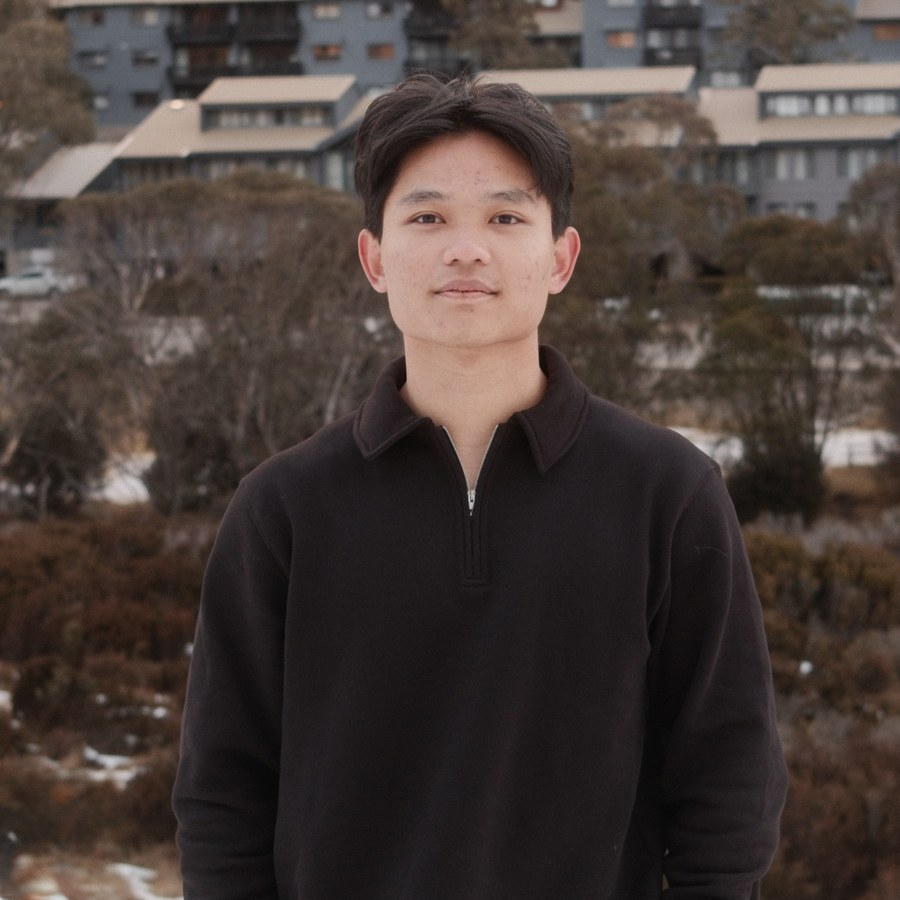
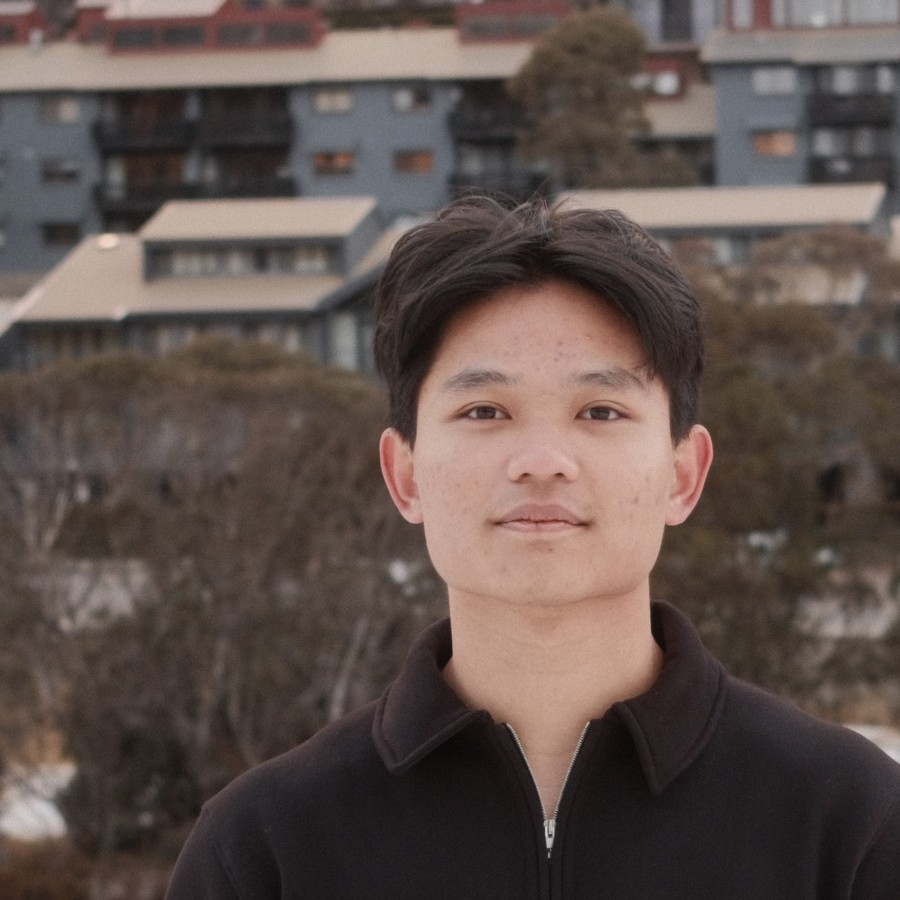
Simplify hero to match mockup, refine contact headshot
Removes the headshot, Projects/Resume buttons, and the "Projects"
heading from the top of the page so it goes straight from the
name/subtitle into the project grid, matching the design reference.
Also re-crops the contact headshot tighter on the face and drops the
grayscale filter for a full-color photo.

diff --git a/src/components/Hero.jsx b/src/components/Hero.jsx
@@ -1,48 +1,12 @@
-import { useState } from "react";
 import { profile } from "../data";
 
 export default function Hero() {
-  const [imgFailed, setImgFailed] = useState(false);
-  const hasPhoto = profile.headshotUrl && !imgFailed;
-
   return (
     <section className="flex flex-col items-center justify-center px-5 pb-16 pt-24 text-center md:pb-20 md:pt-32">
       <h1 className="text-[44px] font-bold leading-none tracking-[-0.04em] text-ink md:text-display">
         {profile.name.toUpperCase()}
       </h1>
       <h2 className="mt-4 text-section text-muted">{profile.role}</h2>
-
-      <div className="mt-10 h-40 w-40 border border-ink bg-white">
-        {hasPhoto ? (
-          <img
-            src={profile.headshotUrl}
-            alt={profile.name}
-            onError={() => setImgFailed(true)}
-            className="h-full w-full object-cover"
-          />
-        ) : (
-          <div className="flex h-full w-full items-center justify-center text-section text-muted">
-            {profile.initials}
-          </div>
-        )}
-      </div>
-
-      <div className="mt-10 flex flex-wrap justify-center gap-4">
-        <a
-          href="#projects"
-          className="border border-ink px-8 py-3 text-label uppercase text-ink transition-colors hover:bg-ink hover:text-paper"
-        >
-          Projects
-        </a>
-        <a
-          href={profile.resumeUrl}
-          target="_blank"
-          rel="noreferrer"
-          className="border border-ink px-8 py-3 text-label uppercase text-ink transition-colors hover:bg-ink hover:text-paper"
-        >
-          Resume
-        </a>
-      </div>
     </section>
   );
 }

diff --git a/src/components/Projects.jsx b/src/components/Projects.jsx
@@ -7,9 +7,7 @@ export default function Projects() {
       id="projects"
       className="mx-auto max-w-6xl border-t border-ink px-5 py-12 md:px-10 md:py-16"
     >
-      <h2 className="text-center text-section uppercase text-ink">Projects</h2>
-
-      <div className="mt-8 grid grid-cols-1 gap-8 md:grid-cols-2 md:gap-10">
+      <div className="grid grid-cols-1 gap-8 md:grid-cols-2 md:gap-10">
         {projects.map((project) => (
           <Link
             key={project.slug}

diff --git a/src/components/Contact.jsx b/src/components/Contact.jsx
@@ -16,7 +16,7 @@ export default function Contact() {
             src={profile.headshotUrl}
             alt={profile.name}
             onError={() => setImgFailed(true)}
-            className="h-full w-full object-cover grayscale"
+            className="h-full w-full object-cover"
           />
         ) : (
           <div className="flex h-full w-full items-center justify-center text-section text-muted">
